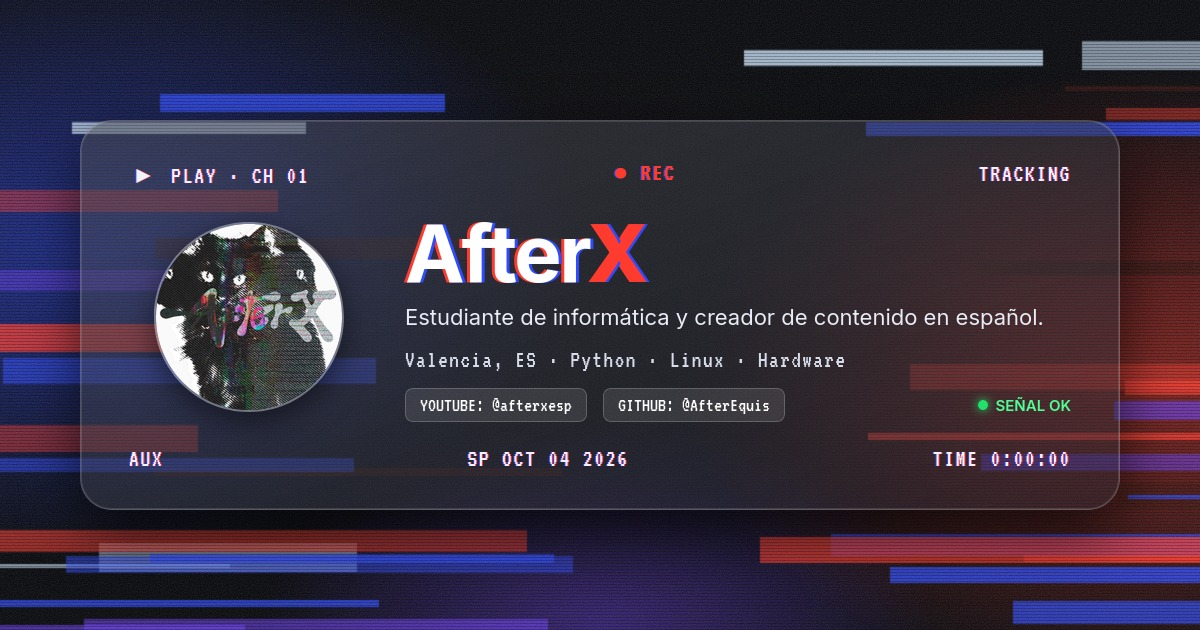
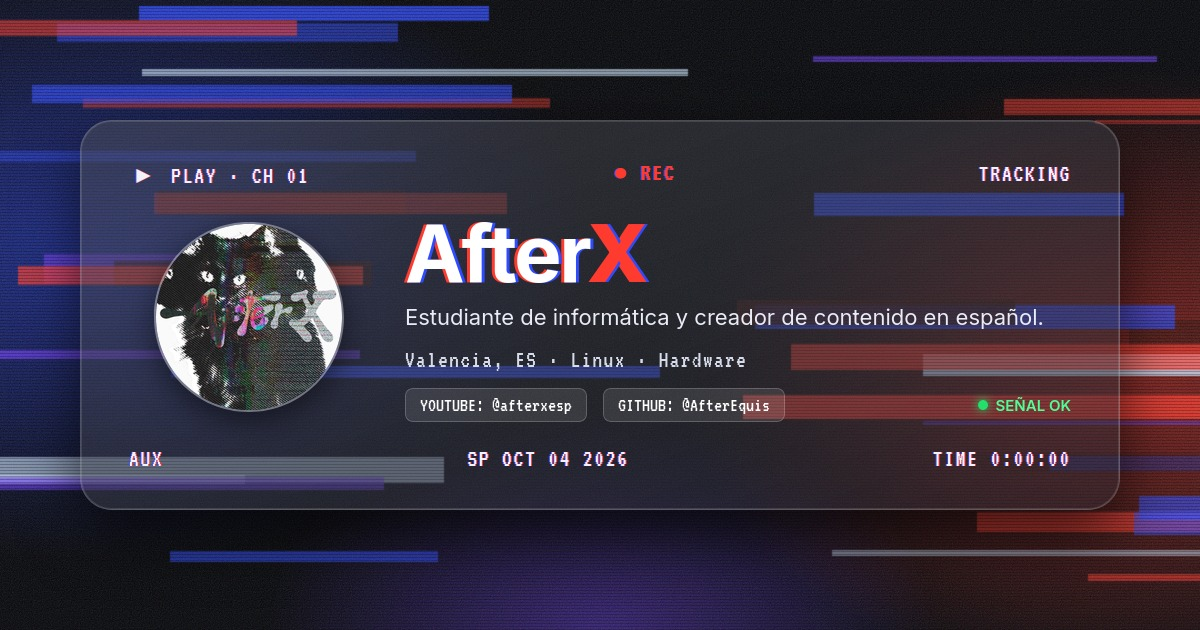
fix: actualizar setup con VSCodium, KDE Plasma y eliminar menciones a Python

diff --git a/index.html b/index.html
@@ -52,7 +52,7 @@
    <div class="avatar"><img alt="Logo de AfterX: cara sonriente con glitch" src="./assets/avatar.jpg"></div>
    <h1 data-t="AfterX">After<b>X</b></h1>
    <p class="bio">Estudiante de informática y creador de contenido en español.</p>
-   <div class="meta">Valencia, ES · Python · Linux · Hardware</div>
+   <div class="meta">Valencia, ES · Linux · Hardware</div>
    <div class="status"><span class="dot"></span><span class="ok">SEÑAL OK</span><span>En línea</span></div>
    <a class="cta" href="https://youtube.com/@afterxesp">Ver mi canal de YouTube</a>
    <div class="icons">
@@ -68,15 +68,15 @@
    <div class="panel" id="p2" role="tabpanel" aria-labelledby="tab-2"><h2>Proyectos</h2>
     <div class="sub">GitHub</div>
     <div id="gh-repos" class="repos-list">
-     <a class="item" href="https://github.com/AfterEquis/Afterwave" target="_blank" rel="noopener noreferrer"><h3>Afterwave</h3><p>Combined audio</p><div class="row"><span class="lang" style="--c:#3572A5">Python</span></div></a>
+     <a class="item" href="https://github.com/AfterEquis/AudioVisual" target="_blank" rel="noopener noreferrer"><h3>AudioVisual</h3><p>Proyectos de edición de vídeo, fotografía y multimedia</p></a>
     </div>
     <div class="sub">YouTube</div>
     <a class="item vid" id="yt-video" href="https://www.youtube.com/watch?v=4iT_sjNgHt8" target="_blank" rel="noopener noreferrer"><div class="thumb"><img src="https://i1.ytimg.com/vi/4iT_sjNgHt8/hqdefault.jpg" alt="Miniatura de vídeo" style="position:absolute;inset:0;width:100%;height:100%;object-fit:cover;"><span class="play">▶</span></div><div><h3>Intente jugar WARZONE y ME PASO ESTO...</h3><p>Canal AfterXEsp_ · 27 oct 2024</p></div></a>
     <div class="btns"><a class="btn" href="https://github.com/AfterEquis">Ver repos <svg viewBox="0 0 16 16"><use href="#gh"/></svg></a><a class="btn" href="https://youtube.com/@afterxesp">Ir al canal <svg viewBox="0 0 24 24"><use href="#yt"/></svg></a></div></div>
    <div class="panel" id="p3" role="tabpanel" aria-labelledby="tab-3"><h2>Setup</h2>
     <div class="item"><h3>Equipo</h3><p>AMD Ryzen 7 7700X (8C/16T) · NVIDIA GeForce RTX 5060 Ti 16GB · 32 GB DDR5 · Pantalla 1440p @ 180Hz</p></div>
-    <div class="item"><h3>Sistema</h3><p>CachyOS Linux (Kernel optimizado) · Wayland con GNOME y Hyprland · Terminal Kitty con Fish/Zsh</p></div>
-    <div class="item"><h3>Programas</h3><p>Neovim para desarrollo · OBS Studio para grabación · Kdenlive para edición de vídeo</p></div></div>
+    <div class="item"><h3>Sistema</h3><p>CachyOS Linux (Kernel optimizado) · KDE Plasma, GNOME y Hyprland · Terminal Kitty con Fish/Zsh</p></div>
+    <div class="item"><h3>Programas</h3><p>VSCodium para desarrollo · OBS Studio para grabación · Kdenlive para edición de vídeo</p></div></div>
   </section>
  </div>
 

diff --git a/scripts/og-card.html b/scripts/og-card.html
@@ -116,7 +116,7 @@
     <div class="og-info">
       <h1 data-t="AfterX">After<b>X</b></h1>
       <p class="bio">Estudiante de informática y creador de contenido en español.</p>
-      <div class="meta">Valencia, ES · Python · Linux · Hardware</div>
+      <div class="meta">Valencia, ES · Linux · Hardware</div>
       <div class="og-badges">
         <span class="badge-tag">YOUTUBE: @afterxesp</span>
         <span class="badge-tag">GITHUB: @AfterEquis</span>
